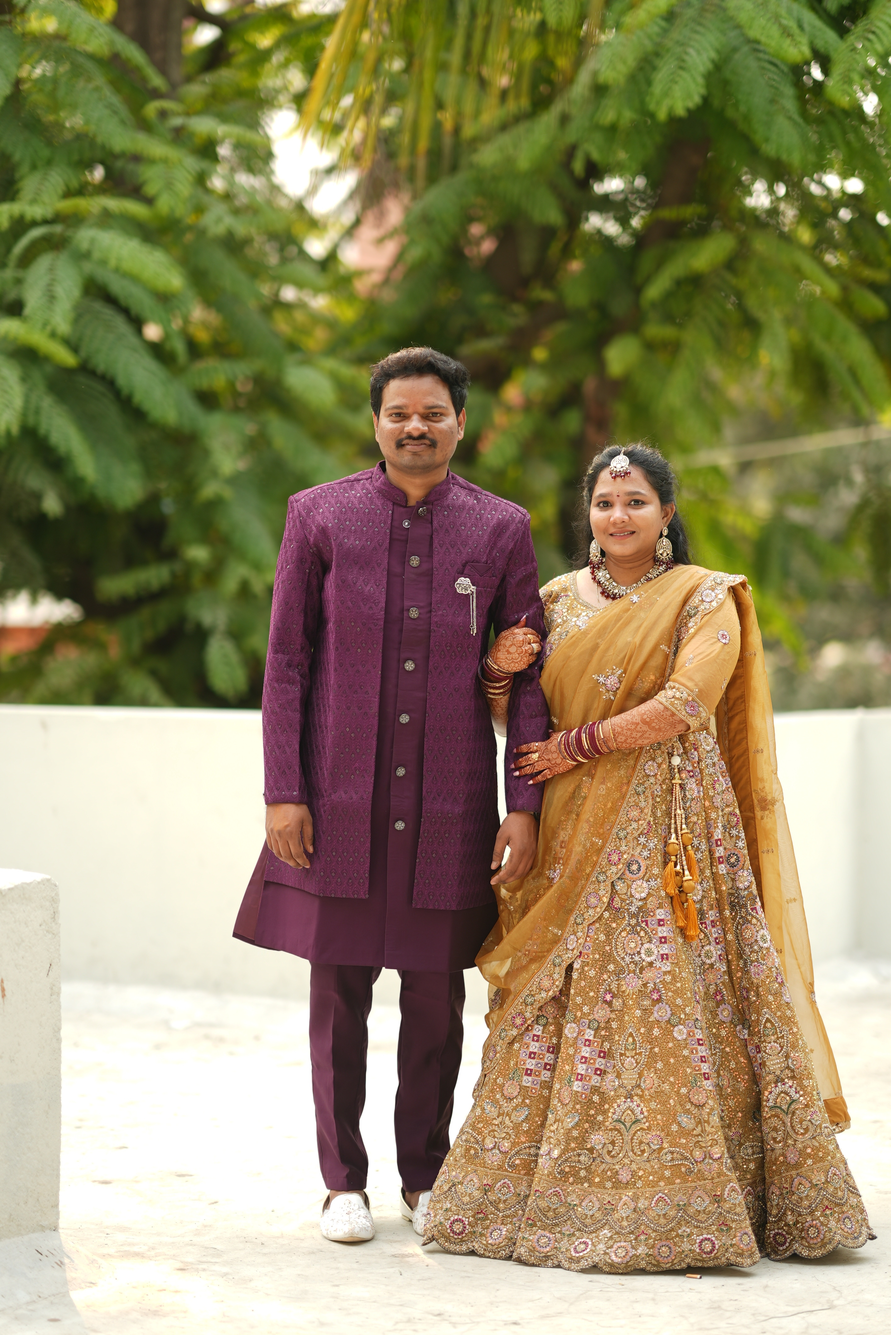
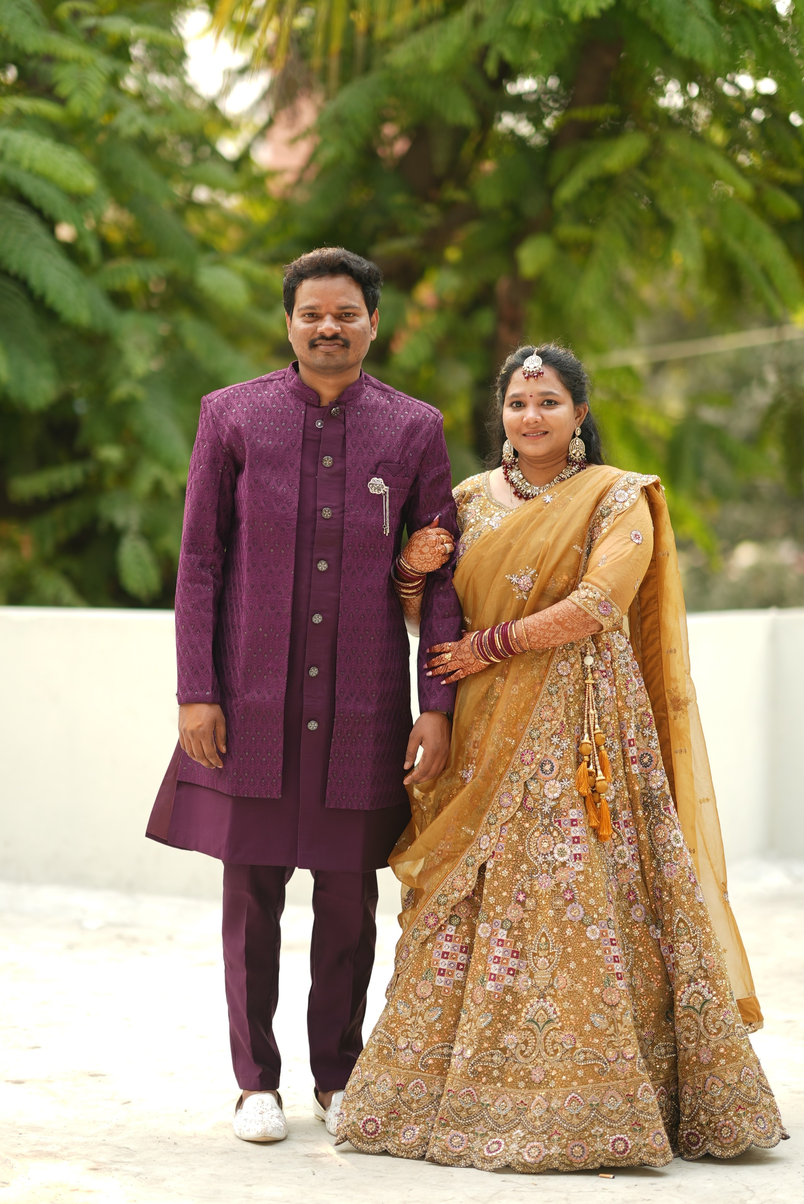
dev update

diff --git a/index.html b/index.html
@@ -23,7 +23,7 @@
       <div></div>
       <div></div>
     </div>
-    <p class="loader-text">Prasu weds Venky...</p>
+    <p class="loader-text">prasu weds venky...</p>
   </div>
 
   <div id="main-content" class="hidden-content">
@@ -51,15 +51,15 @@
     <div class="section-3">
       <div class="invitation-card">
 
-        <div class="ganesha" style="margin-top: 100px;">ॐ श्री गणेशाय नम</div>
+        <div class="ganesha" style="margin-top: 100px;">ఓం శ్రీ గణేశాయ నమః</div>
 
         <div class="vinayagan">
           <img src="images/ganesh.png" alt="" class="ganesh" style="margin-bottom: 50px; margin-top: 50px;" />
         </div>
 
         <div class="blessing">
-          With the heavenly blessings of <br />
-          Shri. Ayithireddy Satyanarayana Garu & Smt. Satyanarayanamma
+          With the blessings of <br />
+          Shri. Ayitireddy Satyanarayana Garu (late) & Smt. Satyanarayanamma
         </div>
 
         <div class="divider"></div>
@@ -74,42 +74,46 @@
         <div class="and">&</div>
         <div class="name">VENKAT</div>
 
-        <div class="sub-text">Daughter of</div>
+        <div class="sub-text">prasanna - daughter of</div>
         <div class="parent-text">
-          Shri. Ayithireddy Ravikumar & Smt. Nagamani
+          shri. ayitireddy ravikumar & smt. nagamani
+        </div>
+        <div class="sub-text">venkat - son of</div>
+        <div class="parent-text">
+          shri. karra rama krishna & smt. radha
         </div>
         <div class="divider"></div>
       </div>
       <div class="section-4">
         <div class="venue-container">
 
-          <h2 class="venue-title">Wedding Details</h2>
+          <h2 class="venue-title">wedding details</h2>
 
           <div class="venue-card">
 
             <div class="event-block">
-              <h3>Wedding Ceremony (Sumuhurtham)</h3>
-              <p><strong>Date:</strong> Friday, 10th April 2026</p>
+              <h3>wedding ceremony (sumuhurtham)</h3>
+              <p><strong>Date:</strong> friday, 10th april 2026</p>
               <p><strong>Time:</strong> 08:13 PM</p>
-              <p><strong>Occasion:</strong> Marriage Ceremony</p>
+              <p><strong>Occasion:</strong> marriage ceremony</p>
             </div>
 
             <div class="divider"></div>
 
             <div class="event-block">
-              <h3>Dinner</h3>
-              <p><strong>Date:</strong> Friday, 10th April 2026</p>
+              <h3>dinner</h3>
+              <p><strong>Date:</strong> friday, 10th april 2026</p>
               <p><strong>Time:</strong> 7:00 PM onwards</p>
-              <p><strong>Location:</strong> At the Marriage Venue</p>
+              <p><strong>Location:</strong> at the marriage venue</p>
             </div>
 
             <div class="divider"></div>
 
             <div class="event-block">
-              <h3>Venue</h3>
+              <h3>venue</h3>
               <p class="venue-address">
-                Margani seshayya savitramma convention <br>
-                NH-16, Kadiyapulanka
+                margani seshayya savitramma convention <br>
+                NH-16, kadiyapulanka
               </p>
 
               <a href="https://maps.app.goo.gl/KmqcWdvF5B2xLrvE9" target="_blank" class="map-btn">
@@ -119,7 +123,23 @@
 
           </div>
 
-          <img src="images/DSC02228.jpeg" class="wedding-photo">
+          <!-- PHOTO SLIDER -->
+          <div class="photo-slider" id="photoSlider">
+            <div class="slider-track" id="sliderTrack">
+              <div class="slide">
+                <img src="images/DSC02228.jpeg" alt="Wedding Photo 1" />
+              </div>
+              <div class="slide">
+                <img src="images/IMG_20260401_235352.jpg" alt="Wedding Photo 2" />
+              </div>
+            </div>
+
+            <!-- Dot indicators -->
+            <div class="slider-dots" id="sliderDots">
+              <span class="dot active" data-index="0"></span>
+              <span class="dot" data-index="1"></span>
+            </div>
+          </div>
 
         </div>
       </div>
@@ -127,7 +147,7 @@
         <img src="images/bottom-photo.png" alt="" class="temple2">
 
         <div class="countdown-overlay">
-          <h2>The Wedding Countdown Begins</h2>
+          <h2>the wedding countdown begins</h2>
           <div id="countdown"></div>
           <p class="countdown-para">
             Our families are excited that you are able to join us in celebrating what we hope will be one of the
@@ -189,4 +209,130 @@
       }, 800);
     }, 1500);
   });
+  // ===== PHOTO SLIDER (infinite loop) =====
+  (function () {
+    const track = document.getElementById('sliderTrack');
+    const dots = document.querySelectorAll('#sliderDots .dot');
+    const slider = document.getElementById('photoSlider');
+    const total = 2;
+    let current = 1; // starts at 1 because index 0 = cloned last slide
+    let autoTimer;
+    let isTransitioning = false;
+
+    // --- Clone first and last slides for infinite illusion ---
+    const slides = track.querySelectorAll('.slide');
+    const firstClone = slides[0].cloneNode(true);
+    const lastClone = slides[total - 1].cloneNode(true);
+    track.appendChild(firstClone);   // goes after slide 2
+    track.insertBefore(lastClone, slides[0]); // goes before slide 1
+
+    // Jump to position 1 (real slide 1) instantly on load, no animation
+    track.style.transition = 'none';
+    track.style.transform = 'translateX(-100%)';
+
+    function updateDots(realIndex) {
+      dots.forEach(function (d) { d.classList.remove('active'); });
+      dots[realIndex].classList.add('active');
+    }
+
+    function goTo(index, skipTransition) {
+      if (isTransitioning) return;
+      isTransitioning = true;
+      current = index;
+      if (skipTransition) {
+        track.style.transition = 'none';
+      } else {
+        track.style.transition = 'transform 1s cubic-bezier(0.77, 0, 0.175, 1)';
+      }
+      track.style.transform = 'translateX(-' + (current * 100) + '%)';
+      // Update dots (real slides are at indices 1..total)
+      var realIndex = current - 1;
+      if (realIndex < 0) realIndex = total - 1;
+      if (realIndex >= total) realIndex = 0;
+      updateDots(realIndex);
+    }
+
+    // After each CSS transition: handle clone boundary silent resets
+    track.addEventListener('transitionend', function () {
+      isTransitioning = false;
+      if (current === total + 1) {
+        // Was at cloned-first (after slide 2) → silently jump to real slide 1
+        track.style.transition = 'none';
+        current = 1;
+        track.style.transform = 'translateX(-100%)';
+      } else if (current === 0) {
+        // Was at cloned-last (before slide 1) → silently jump to real slide 2
+        track.style.transition = 'none';
+        current = total;
+        track.style.transform = 'translateX(-' + (total * 100) + '%)';
+      }
+    });
+
+    function next() { goTo(current + 1, false); }
+    function prev() { goTo(current - 1, false); }
+
+    function startAuto() { autoTimer = setInterval(next, 3000); }
+    function stopAuto() { clearInterval(autoTimer); }
+
+    // --- Dot click (maps dot 0-3 → real index 1-4) ---
+    dots.forEach(function (dot) {
+      dot.addEventListener('click', function () {
+        stopAuto();
+        var i = parseInt(this.getAttribute('data-index')) + 1;
+        goTo(i, false);
+        startAuto();
+      });
+    });
+
+    // --- Touch swipe ---
+    var touchStartX = 0;
+    var swipeThreshold = 50;
+
+    slider.addEventListener('touchstart', function (e) {
+      touchStartX = e.changedTouches[0].screenX;
+    }, { passive: true });
+
+    slider.addEventListener('touchend', function (e) {
+      var diff = touchStartX - e.changedTouches[0].screenX;
+      if (Math.abs(diff) > swipeThreshold) {
+        stopAuto();
+        if (diff > 0) { next(); } else { prev(); }
+        startAuto();
+      }
+    }, { passive: true });
+
+    // --- Mouse drag swipe ---
+    var mouseStartX = 0;
+    var isDragging = false;
+
+    slider.addEventListener('mousedown', function (e) {
+      mouseStartX = e.clientX;
+      isDragging = true;
+      e.preventDefault();
+    });
+
+    slider.addEventListener('mouseup', function (e) {
+      if (!isDragging) return;
+      isDragging = false;
+      var diff = mouseStartX - e.clientX;
+      if (Math.abs(diff) > swipeThreshold) {
+        stopAuto();
+        if (diff > 0) { next(); } else { prev(); }
+        startAuto();
+      }
+    });
+
+    slider.addEventListener('mouseleave', function () {
+      isDragging = false;
+      startAuto();
+    });
+
+    slider.addEventListener('mouseenter', stopAuto);
+
+    // Kick off
+    startAuto();
+  })();
+  // ========================
+
+
 </script>

diff --git a/style5e1f.css b/style5e1f.css
@@ -257,20 +257,21 @@ body {
 }
 
 .sub-text {
-  font-size: 20px;
+  font-size: 14px;
   margin-top: 50px;
-  font-weight: 300;
+  font-weight: 400;
   color: white;
   text-align: center;
+  font-family: 'Cinzel', serif;
 }
 
 .parent-text {
-  font-size: 18px;
+  font-size: 16px;
   margin-top: 8px;
-  font-weight: 300;
+  font-weight: 700;
   color: white;
   text-align: center;
-  font-family: 'Cormorant Garamond', serif;
+  font-family: 'Cinzel', serif;
 }
 
 /* Wedding Details Section */
@@ -405,14 +406,80 @@ body {
   text-align: center;
 }
 
-.wedding-photo {
+/* ===== PHOTO SLIDER ===== */
+.photo-slider {
+  position: relative;
   width: 100%;
-  max-width: 600px;
-  height: auto;
-  margin-top: 80px;
+  max-width: 620px;
+  margin: 80px auto 0;
   border-radius: 20px;
+  overflow: hidden;
+  box-shadow: 0 20px 60px rgba(0, 0, 0, 0.5);
+}
+
+.slider-track {
+  display: flex;
+  transition: transform 1s cubic-bezier(0.77, 0, 0.175, 1);
+  will-change: transform;
+}
+
+.slide {
+  min-width: 100%;
+  position: relative;
+}
+
+.slide img {
+  width: 100%;
+  height: 500px;
+  object-fit: cover;
+  object-position: center;
   display: block;
 }
+
+.slide-caption {
+  position: absolute;
+  bottom: 0;
+  left: 0;
+  width: 100%;
+  padding: 18px 20px;
+  background: linear-gradient(to top, rgba(0, 0, 0, 0.75) 0%, transparent 100%);
+  color: #fff;
+  font-family: 'Cinzel', serif;
+  font-size: 16px;
+  letter-spacing: 2px;
+  text-align: center;
+  pointer-events: none;
+}
+
+
+
+/* Dot indicators */
+.slider-dots {
+  position: absolute;
+  bottom: 14px;
+  left: 50%;
+  transform: translateX(-50%);
+  display: flex;
+  gap: 8px;
+  z-index: 10;
+}
+
+.dot {
+  width: 9px;
+  height: 9px;
+  border-radius: 50%;
+  background: rgba(255, 255, 255, 0.45);
+  border: 1.5px solid rgba(255, 255, 255, 0.6);
+  cursor: pointer;
+  transition: background 0.3s, transform 0.3s;
+}
+
+.dot.active {
+  background: #ffffff;
+  transform: scale(1.3);
+}
+
+/* ========================= */
 
 /* --- LOADER STYLES --- */
 #loader {
